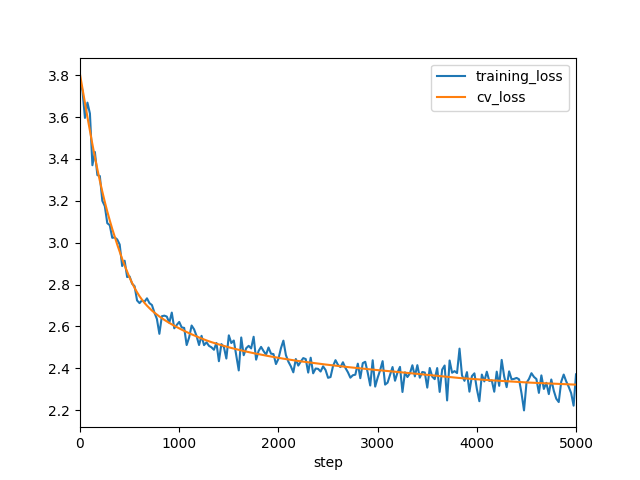
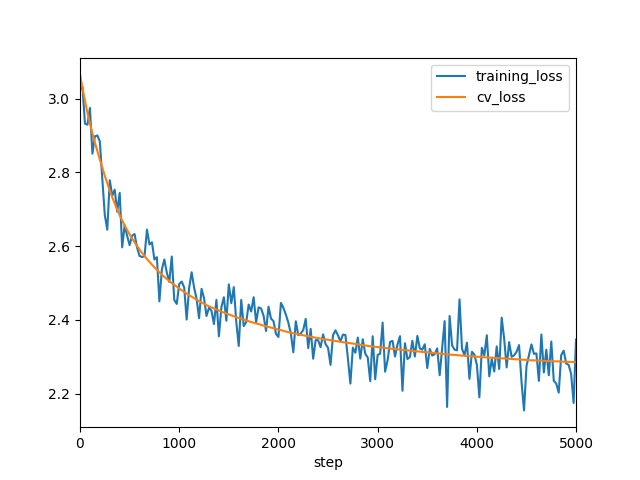
removing index feature

diff --git a/tsmlstarterbot/parsing.py b/tsmlstarterbot/parsing.py
@@ -255,8 +255,7 @@ def parse(all_games_json_data, bot_to_imitate=None, dump_features_location=None)
                     ownership,
                     distance_from_center,
                     average_distance,
-                    is_active,
-                    idx]
+                    is_active]
 
             game_training_data.append((planet_features, allocations))
         training_data.append(game_training_data)

diff --git a/tsmlstarterbot/common.py b/tsmlstarterbot/common.py
@@ -15,8 +15,7 @@ FEATURE_NAMES = [
     "ownership",
     "distance_from_center",
     "weighted_average_distance_from_friendly_ships",
-    "is_active",
-    "frame_index"]
+    "is_active"]
 
 # Number of initial features per planet we have
 PER_PLANET_FEATURES = len(FEATURE_NAMES)

diff --git a/tsmlstarterbot/bot.py b/tsmlstarterbot/bot.py
@@ -108,8 +108,7 @@ class Bot:
                 ownership,
                 distance_from_center,
                 health_weighted_ship_distance,
-                is_active,
-                idx]
+                is_active]
 
         return feature_matrix
 
